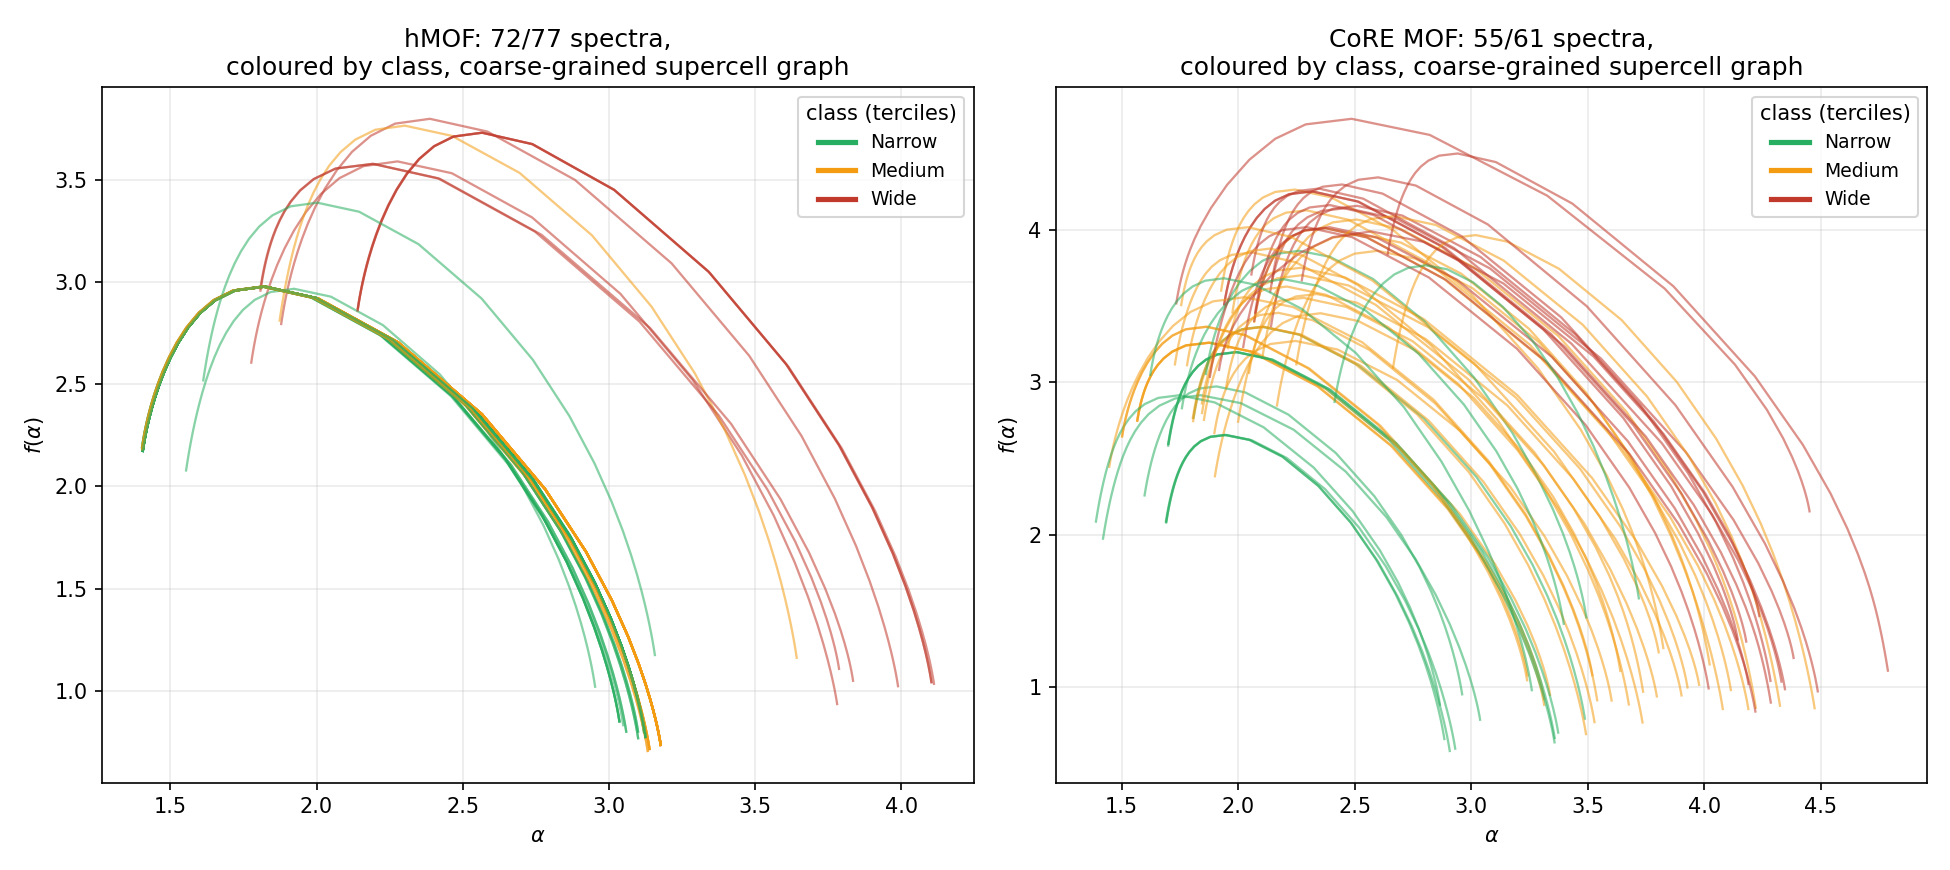
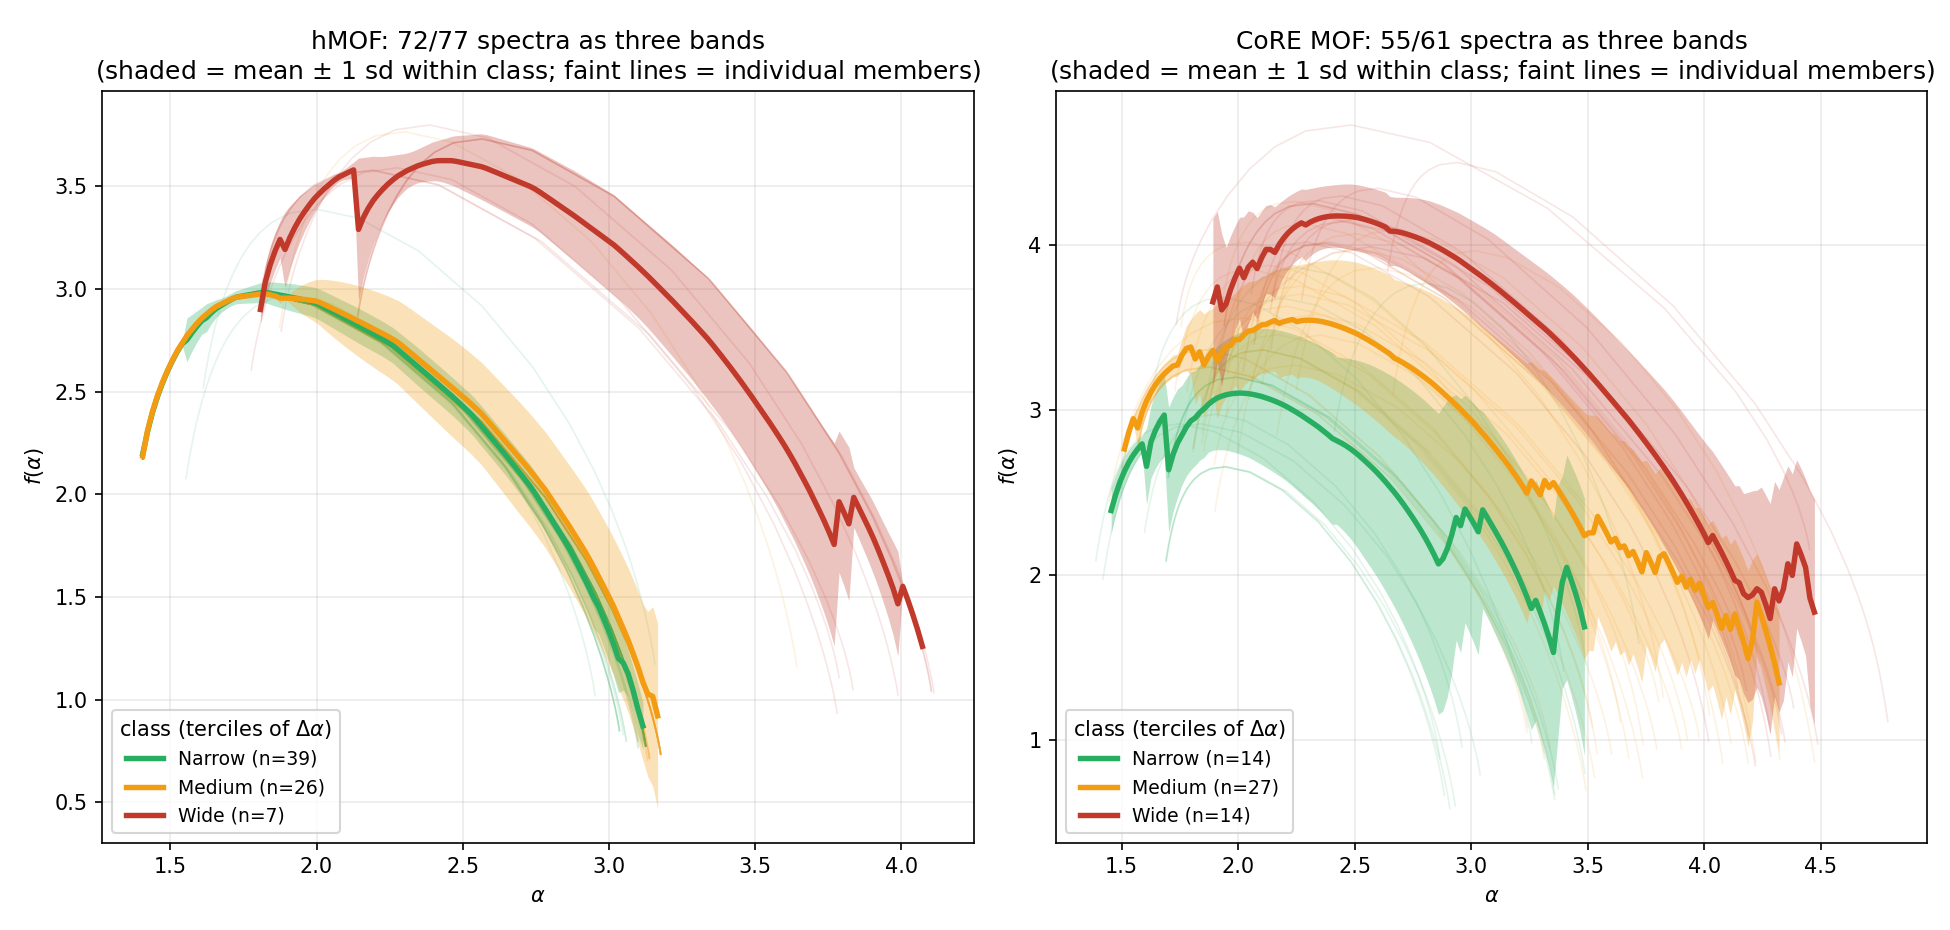
Fix fig17: show actual BANDS (shaded mean +/- 1sd envelope), not just coloured lines
The previous version overlaid every spectrum in its class colour, which is a coloured scatter of lines, not a band. Rewrote make_grouped_spectra_figure.py to interpolate every member onto a common alpha grid per class and draw the class as a shaded mean +/- 1 standard deviation envelope with a solid mean line, individual members kept faint underneath for honesty about what the band summarises. Matches how 'band' is used everywhere else on this page (a range, not a single line).

Claude-Session: https://claude.ai/code/session_01D8ZBx2YqVZMMNEFt5YHe9F

diff --git a/1_website/results.html b/1_website/results.html
@@ -252,26 +252,31 @@
         not hidden in what follows.
       </div>
 
-      <h3 class="sub-head">Every spectrum, grouped by class, both datasets</h3>
-      <p>Each curve below is one structure's full f(&alpha;) singularity spectrum, coloured by
-      which class (Narrow/Medium/Wide) it falls into. This is the same kind of figure any
-      multifractal-spectrum paper shows &mdash; all spectra overlaid on one axis &mdash; but
-      coloured by group rather than left as one colour, and computed on the coarse-grained
-      supercell graph rather than the withdrawn atomic graph.</p>
+      <h3 class="sub-head">Three spectrum bands, not just three numbers, both datasets</h3>
+      <p>A band, everywhere else on this page, means a range of &Delta;&alpha; &mdash; a single
+      number per structure, collapsed to an interval. Here the same idea is applied to the
+      <i>whole spectrum shape</i>: every member of a class is interpolated onto a common
+      &alpha; grid, and the class is drawn as a shaded envelope spanning one standard deviation
+      either side of its mean curve, with the individual members shown faintly underneath so the
+      band is visibly a summary of real spectra rather than an assumed shape.</p>
 
       <figure class="fig wide">
-        <img src="figures/fig17_grouped_spectra.png" alt="Two panels of overlaid multifractal spectra, hMOF and CoRE MOF, each curve coloured green, orange or red by Narrow, Medium or Wide class. In both panels the red curves sit visibly to the right of and above the green ones.">
+        <img src="figures/fig17_grouped_spectra.png" alt="Two panels, hMOF and CoRE MOF, each showing three shaded bands (green, orange, red for Narrow, Medium, Wide) with a solid mean line through each, and faint individual spectra underneath. The red band sits visibly to the right of and above the green band in both panels, with only slight overlap.">
         <figcaption>
-          All usable spectra, both datasets, coloured by class. <b>The classes are visibly
-          separated on the &alpha; axis, not just in the single number &Delta;&alpha;</b> &mdash;
-          Wide (red) curves sit to the right of Narrow (green) curves on both panels, meaning the
-          whole spectrum shifts, not only its width. Mean &alpha;&#8320; (the peak, read at
+          Three bands per dataset, coloured by class, coarse-grained supercell graph. <b>The bands
+          are visibly separated on the &alpha; axis, not just in the single number
+          &Delta;&alpha;</b> &mdash; the Wide (red) band sits to the right of and above the Narrow
+          (green) band in both panels, with only slight overlap, meaning the whole spectrum shifts
+          between classes, not only its width. Mean &alpha;&#8320; (the peak, read at
           <i>q</i>&nbsp;=&nbsp;0) rises Narrow&rarr;Wide on both datasets (hMOF: 1.83 &rarr; 1.84
           &rarr; 2.39; CoRE MOF: 2.04 &rarr; 2.23 &rarr; 2.46), and mean asymmetry becomes more
           negative the same way (hMOF: &minus;1.13 &rarr; &minus;1.17 &rarr; &minus;1.28; CoRE
           MOF: &minus;1.29 &rarr; &minus;1.46 &rarr; &minus;1.59) &mdash; every quantity the
           spectrum produces moves together with class, which is exactly what would happen if
           class is standing in for graph size rather than for any one specific spectral feature.
+          The hMOF Wide band (n=7) is visibly noisier than the other two &mdash; a small band is
+          allowed to look uncertain, and hiding that would be dishonest about what seven curves
+          can and cannot establish.
           Generated by <code>9_dataset/size_scaling/make_grouped_spectra_figure.py</code>.
         </figcaption>
       </figure>

diff --git a/1_website/_build/fragments/results.after.html b/1_website/_build/fragments/results.after.html
@@ -24,26 +24,31 @@
         not hidden in what follows.
       </div>
 
-      <h3 class="sub-head">Every spectrum, grouped by class, both datasets</h3>
-      <p>Each curve below is one structure's full f(&alpha;) singularity spectrum, coloured by
-      which class (Narrow/Medium/Wide) it falls into. This is the same kind of figure any
-      multifractal-spectrum paper shows &mdash; all spectra overlaid on one axis &mdash; but
-      coloured by group rather than left as one colour, and computed on the coarse-grained
-      supercell graph rather than the withdrawn atomic graph.</p>
+      <h3 class="sub-head">Three spectrum bands, not just three numbers, both datasets</h3>
+      <p>A band, everywhere else on this page, means a range of &Delta;&alpha; &mdash; a single
+      number per structure, collapsed to an interval. Here the same idea is applied to the
+      <i>whole spectrum shape</i>: every member of a class is interpolated onto a common
+      &alpha; grid, and the class is drawn as a shaded envelope spanning one standard deviation
+      either side of its mean curve, with the individual members shown faintly underneath so the
+      band is visibly a summary of real spectra rather than an assumed shape.</p>
 
       <figure class="fig wide">
-        <img src="figures/fig17_grouped_spectra.png" alt="Two panels of overlaid multifractal spectra, hMOF and CoRE MOF, each curve coloured green, orange or red by Narrow, Medium or Wide class. In both panels the red curves sit visibly to the right of and above the green ones.">
+        <img src="figures/fig17_grouped_spectra.png" alt="Two panels, hMOF and CoRE MOF, each showing three shaded bands (green, orange, red for Narrow, Medium, Wide) with a solid mean line through each, and faint individual spectra underneath. The red band sits visibly to the right of and above the green band in both panels, with only slight overlap.">
         <figcaption>
-          All usable spectra, both datasets, coloured by class. <b>The classes are visibly
-          separated on the &alpha; axis, not just in the single number &Delta;&alpha;</b> &mdash;
-          Wide (red) curves sit to the right of Narrow (green) curves on both panels, meaning the
-          whole spectrum shifts, not only its width. Mean &alpha;&#8320; (the peak, read at
+          Three bands per dataset, coloured by class, coarse-grained supercell graph. <b>The bands
+          are visibly separated on the &alpha; axis, not just in the single number
+          &Delta;&alpha;</b> &mdash; the Wide (red) band sits to the right of and above the Narrow
+          (green) band in both panels, with only slight overlap, meaning the whole spectrum shifts
+          between classes, not only its width. Mean &alpha;&#8320; (the peak, read at
           <i>q</i>&nbsp;=&nbsp;0) rises Narrow&rarr;Wide on both datasets (hMOF: 1.83 &rarr; 1.84
           &rarr; 2.39; CoRE MOF: 2.04 &rarr; 2.23 &rarr; 2.46), and mean asymmetry becomes more
           negative the same way (hMOF: &minus;1.13 &rarr; &minus;1.17 &rarr; &minus;1.28; CoRE
           MOF: &minus;1.29 &rarr; &minus;1.46 &rarr; &minus;1.59) &mdash; every quantity the
           spectrum produces moves together with class, which is exactly what would happen if
           class is standing in for graph size rather than for any one specific spectral feature.
+          The hMOF Wide band (n=7) is visibly noisier than the other two &mdash; a small band is
+          allowed to look uncertain, and hiding that would be dishonest about what seven curves
+          can and cannot establish.
           Generated by <code>9_dataset/size_scaling/make_grouped_spectra_figure.py</code>.
         </figcaption>
       </figure>

diff --git a/9_dataset/size_scaling/make_grouped_spectra_figure.py b/9_dataset/size_scaling/make_grouped_spectra_figure.py
@@ -1,16 +1,16 @@
-"""Grouped multifractal spectra: every structure's f(alpha) vs alpha curve,
-on the CORRECT coarse-grained supercell graph, coloured by class
-(Narrow/Medium/Wide terciles of Delta-alpha), for both full datasets.
-matplotlib only.
+"""Grouped multifractal spectra shown as actual BANDS, not coloured lines.
 
-This is the grouped version of the standard "all spectra overlaid" figure
-this project already uses (site fig10, panel b): same idea, but coloured by
-class instead of left as one colour, and computed on the graph the method
-actually calls for instead of the withdrawn atomic graph.
+For each class (Narrow/Medium/Wide) each structure's f(alpha) vs alpha curve
+is interpolated onto a common alpha grid, then the class is drawn as a
+shaded envelope (mean +/- one standard deviation across its members) with a
+solid mean line through the middle -- a band, the way this project uses the
+word everywhere else (a range Delta-alpha occupies), applied to the whole
+spectrum shape instead of to the single width number. Individual member
+curves are drawn underneath, very faint, so the band is not asserted without
+showing what it is a band OF.
 
-Reads full_band_hmof_cg.json, full_band_core_cg.json (per-structure spectra,
-now including the full alpha(q)/f_alpha(q) curves) and
-subband_explain_hmof.json, subband_explain_core.json (class thresholds).
+matplotlib only. Reads full_band_hmof_cg.json, full_band_core_cg.json (curves)
+and subband_explain_hmof.json, subband_explain_core.json (class thresholds).
 Writes grouped_spectra_figure.png.
 """
 import json
@@ -47,6 +47,25 @@ def clean_curve(alpha, f_alpha):
     return au, np.array([f[inv == k].mean() for k in range(len(au))])
 
 
+def band_for_class(rows, grid):
+    """Interpolate every member's curve onto `grid`, return (mean, std,
+    n_covering) at each grid point. NaN where fewer than 2 members reach
+    that alpha, so the shaded region never implies data that is not there."""
+    stack = []
+    for r in rows:
+        a, f = clean_curve(r['alpha'], r['f_alpha'])
+        if len(a) < 3:
+            continue
+        stack.append(np.interp(grid, a, f, left=np.nan, right=np.nan))
+    stack = np.asarray(stack)
+    n_covering = np.sum(np.isfinite(stack), axis=0)
+    mean = np.nanmean(stack, axis=0)
+    std = np.nanstd(stack, axis=0)
+    mean[n_covering < 2] = np.nan
+    std[n_covering < 2] = np.nan
+    return mean, std, n_covering
+
+
 def main():
     hmof = load('full_band_hmof_cg.json')
     core = load('full_band_core_cg.json')
@@ -56,20 +75,40 @@ def main():
     hg = classify([r for r in hmof['records'] if r.get('ok')], hmof_x['q25'], hmof_x['q75'])
     cg = classify([r for r in core['records'] if r.get('ok')], core_x['q25'], core_x['q75'])
 
-    fig, axes = plt.subplots(1, 2, figsize=(13, 5.8))
+    fig, axes = plt.subplots(1, 2, figsize=(13, 6.2))
 
     for ax, recs, label, n_total in ((axes[0], hg, 'hMOF', 77), (axes[1], cg, 'CoRE MOF', 61)):
+        all_alpha = np.concatenate([
+            clean_curve(r['alpha'], r['f_alpha'])[0] for r in recs
+            if len(clean_curve(r['alpha'], r['f_alpha'])[0]) >= 3])
+        lo, hi = np.percentile(all_alpha, [1, 99])
+        grid = np.linspace(lo, hi, 160)
+
+        # faint individual members first, so the band is visibly a summary
+        # of real curves and not a synthetic shape
         for r in recs:
             a, f = clean_curve(r['alpha'], r['f_alpha'])
             if len(a) < 3:
                 continue
-            ax.plot(a, f, color=COLORS[r['class']], alpha=0.55, lw=1.1)
+            ax.plot(a, f, color=COLORS[r['class']], alpha=0.12, lw=0.8, zorder=1)
+
+        # the band itself: shaded mean +/- 1 sd, one per class, drawn last
+        # so it sits on top of the faint member curves
         for cls in ('Narrow', 'Medium', 'Wide'):
-            ax.plot([], [], color=COLORS[cls], lw=2.5, label=cls)
+            rows = [r for r in recs if r['class'] == cls]
+            if not rows:
+                continue
+            mean, std, n_cov = band_for_class(rows, grid)
+            ax.fill_between(grid, mean - std, mean + std, color=COLORS[cls],
+                             alpha=0.30, zorder=2, linewidth=0)
+            ax.plot(grid, mean, color=COLORS[cls], lw=2.6, zorder=3,
+                     label=f'{cls} (n={len(rows)})')
+
         ax.set_xlabel(r'$\alpha$')
         ax.set_ylabel(r'$f(\alpha)$')
-        ax.set_title(f'{label}: {len(recs)}/{n_total} spectra,\ncoloured by class, coarse-grained supercell graph')
-        ax.legend(fontsize=9, title='class (terciles)')
+        ax.set_title(f'{label}: {len(recs)}/{n_total} spectra as three bands\n'
+                     f'(shaded = mean $\\pm$ 1 sd within class; faint lines = individual members)')
+        ax.legend(fontsize=9, title='class (terciles of $\\Delta\\alpha$)', loc='lower left')
         ax.grid(alpha=0.25)
 
     fig.tight_layout()
@@ -77,7 +116,6 @@ def main():
     fig.savefig(out, dpi=150)
     print(f'written {out}')
 
-    # console summary: alpha_0 (apex) and asymmetry per class, both datasets
     for label, recs in (('hMOF', hg), ('CoRE MOF', cg)):
         print(f'\n{label}:')
         for cls in ('Narrow', 'Medium', 'Wide'):
